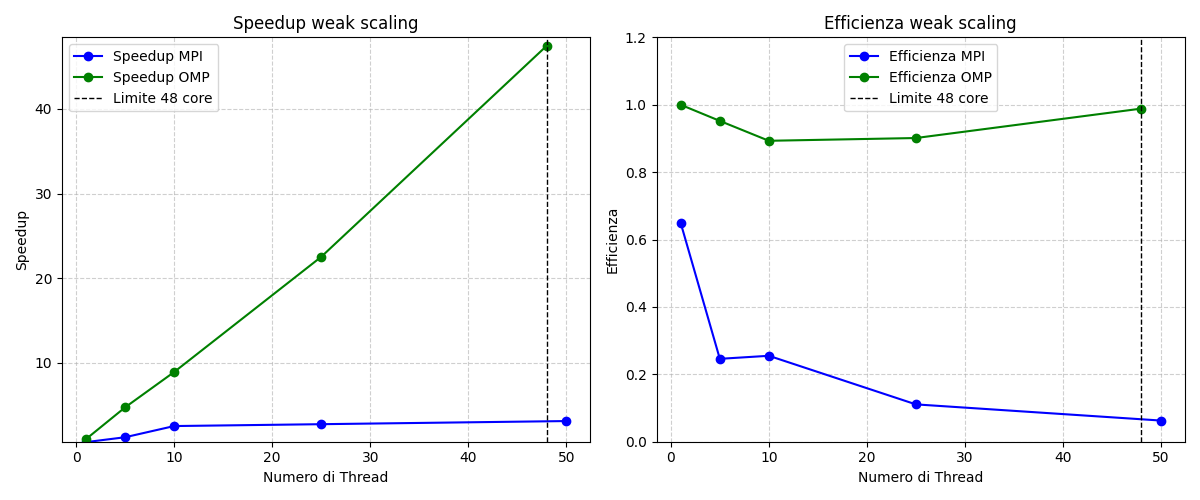
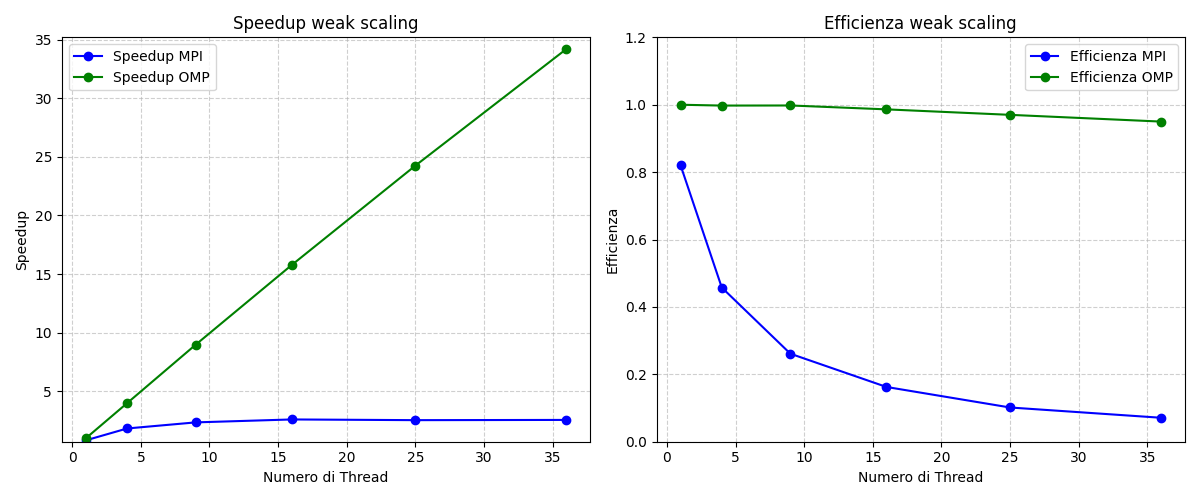
asd

diff --git a/HPC/Approfondimento riduzione/risultati/grafici/plot_sintesi_weak.py b/HPC/Approfondimento riduzione/risultati/grafici/plot_sintesi_weak.py
@@ -1,13 +1,13 @@
 import matplotlib.pyplot as plt
 
 # Dati della versione MPI
-num_threads_mpi = [1, 5, 10, 25, 50]
-speedup_mpi = [0.65, 1.23, 2.55, 2.77, 3.14]
+num_threads_mpi = [1, 4, 9, 16, 25, 36]
+speedup_mpi = [0.82, 1.83, 2.35, 2.60, 2.54, 2.56]
 efficiency_mpi = [s/t for s, t in zip(speedup_mpi, num_threads_mpi)]
 
 # Dati della versione OMP
-num_threads_omp = [1, 5, 10, 25, 48]
-speedup_omp = [1, 4.76, 8.93, 22.53, 47.45]
+num_threads_omp = [1, 4, 9, 16, 25, 36]
+speedup_omp = [1, 3.99, 8.98, 15.78, 24.25, 34.20]
 efficiency_omp = [s/t for s, t in zip(speedup_omp, num_threads_omp)]
 
 # Creazione della figura con due sottografi
@@ -16,7 +16,6 @@ fig, axes = plt.subplots(1, 2, figsize=(12, 5))
 # Primo grafico: Speedup
 axes[0].plot(num_threads_mpi, speedup_mpi, 'bo-', markersize=6, label="Speedup MPI")
 axes[0].plot(num_threads_omp, speedup_omp, 'go-', markersize=6, label="Speedup OMP")
-axes[0].axvline(48, color='black', linestyle='--', linewidth=1, label="Limite 48 core")
 axes[0].set_xlabel("Numero di Thread")
 axes[0].set_ylabel("Speedup")
 axes[0].set_title("Speedup weak scaling")
@@ -27,7 +26,6 @@ axes[0].legend()
 # Secondo grafico: Efficienza
 axes[1].plot(num_threads_mpi, efficiency_mpi, 'bo-', markersize=6, label="Efficienza MPI")
 axes[1].plot(num_threads_omp, efficiency_omp, 'go-', markersize=6, label="Efficienza OMP")
-axes[1].axvline(48, color='black', linestyle='--', linewidth=1, label="Limite 48 core")
 axes[1].set_xlabel("Numero di Thread")
 axes[1].set_ylabel("Efficienza")
 axes[1].set_title("Efficienza weak scaling")

diff --git a/HPC/Approfondimento riduzione/risultati/grafici/plot_omp_weak.py b/HPC/Approfondimento riduzione/risultati/grafici/plot_omp_weak.py
@@ -1,8 +1,8 @@
 import matplotlib.pyplot as plt # type: ignore
 
 # Dati dalla tabella
-num_threads = [1, 5, 10, 25, 48]
-speedup = [1, 4.76, 8.93, 22.53, 47.45]
+num_threads = [1, 4, 9, 16, 25, 36]
+speedup = [1, 3.99, 8.98, 15.78, 24.25, 34.20]
 efficiency = [s/t for s, t in zip(speedup, num_threads)]  # Efficienza = Speedup / Num_threads
 
 # Creazione della figura con due sottografi
@@ -10,7 +10,6 @@ fig, axes = plt.subplots(1, 2, figsize=(12, 5))
 
 # Primo grafico: Speedup
 axes[0].plot(num_threads, speedup, 'bo-', markersize=6, label="Speedup")
-axes[0].axvline(48, color='black', linestyle='--', linewidth=1, label="Limite 48 core")
 axes[0].set_xlabel("Numero di Thread")
 axes[0].set_ylabel("Speedup")
 axes[0].set_title("Speedup weak")
@@ -20,7 +19,6 @@ axes[0].legend()
 
 # Secondo grafico: Efficienza
 axes[1].plot(num_threads, efficiency, 'ro-', markersize=6, label="Efficienza")
-axes[0].axvline(48, color='black', linestyle='--', linewidth=1, label="Limite 48 core")
 axes[1].set_xlabel("Numero di Thread")
 axes[1].set_ylabel("Efficienza")
 axes[1].set_title("Efficienza weak")

diff --git a/HPC/Approfondimento riduzione/risultati/grafici/plot_mpi_weak.py b/HPC/Approfondimento riduzione/risultati/grafici/plot_mpi_weak.py
@@ -1,8 +1,8 @@
 import matplotlib.pyplot as plt # type: ignore
 
 # Dati dalla tabella
-num_threads = [1, 5, 10, 25, 50]
-speedup = [0.65, 1.23, 2.55, 2.77, 3.14]
+num_threads = [1, 4, 9, 16, 25, 36]
+speedup = [0.82, 1.83, 2.35, 2.60, 2.54, 2.56]
 efficiency = [s/t for s, t in zip(speedup, num_threads)]  # Efficienza = Speedup / Num_threads
 
 # Creazione della figura con due sottografi
@@ -13,6 +13,7 @@ axes[0].plot(num_threads, speedup, 'bo-', markersize=6, label="Speedup")
 axes[0].set_xlabel("Numero di Thread")
 axes[0].set_ylabel("Speedup")
 axes[0].set_title("Speedup weak")
+axes[0].set_ylim(0, 10)  # Imposta il limite dell'asse y da 0 a 0.5
 axes[0].grid(True, linestyle="--", alpha=0.6)
 axes[0].legend()
 # axes[0].set_xscale('log')  # Scala logaritmica sull'asse x
